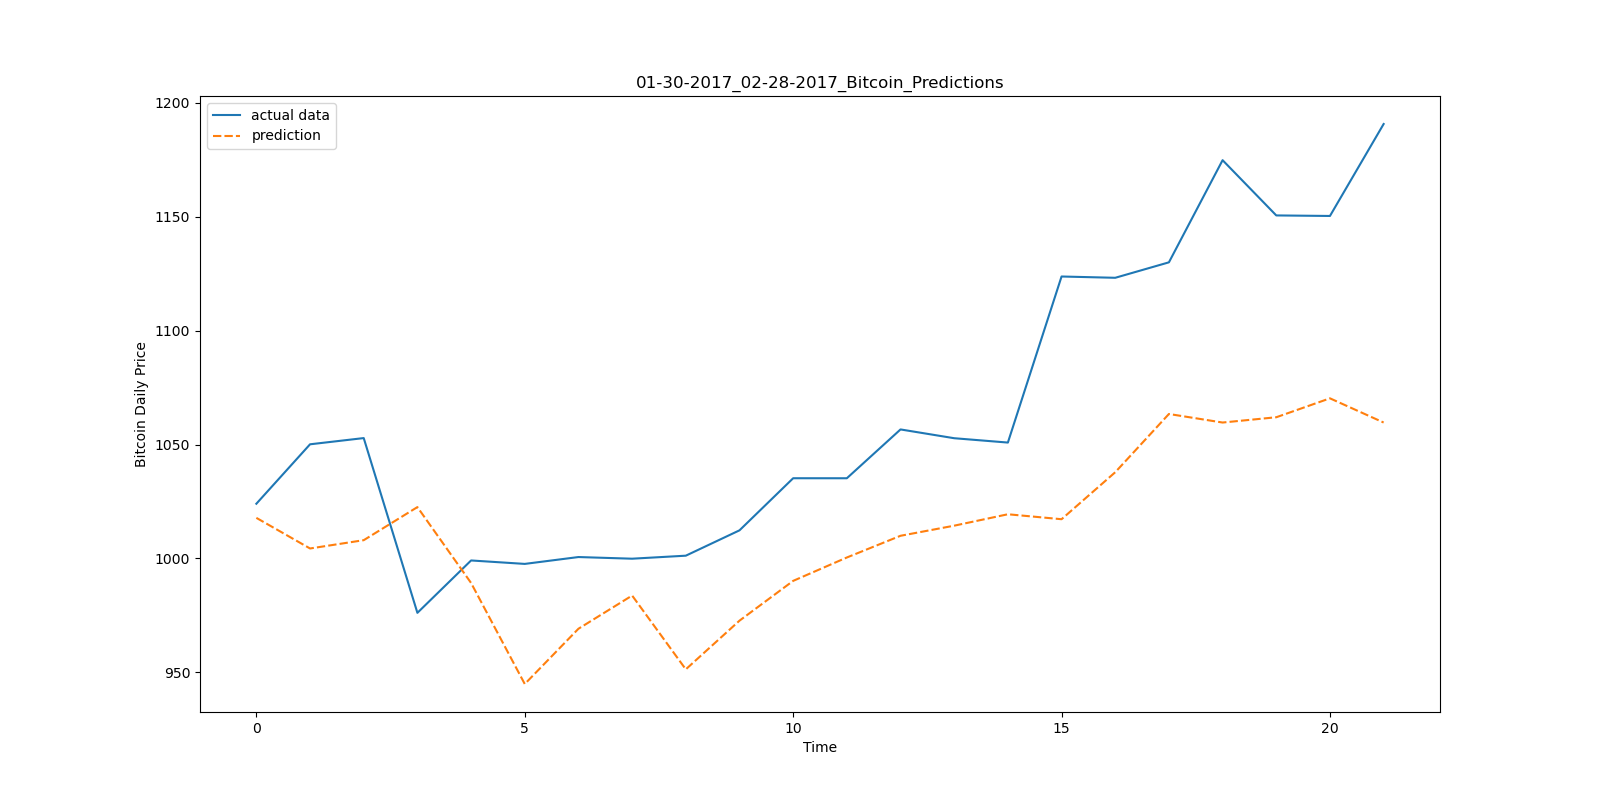
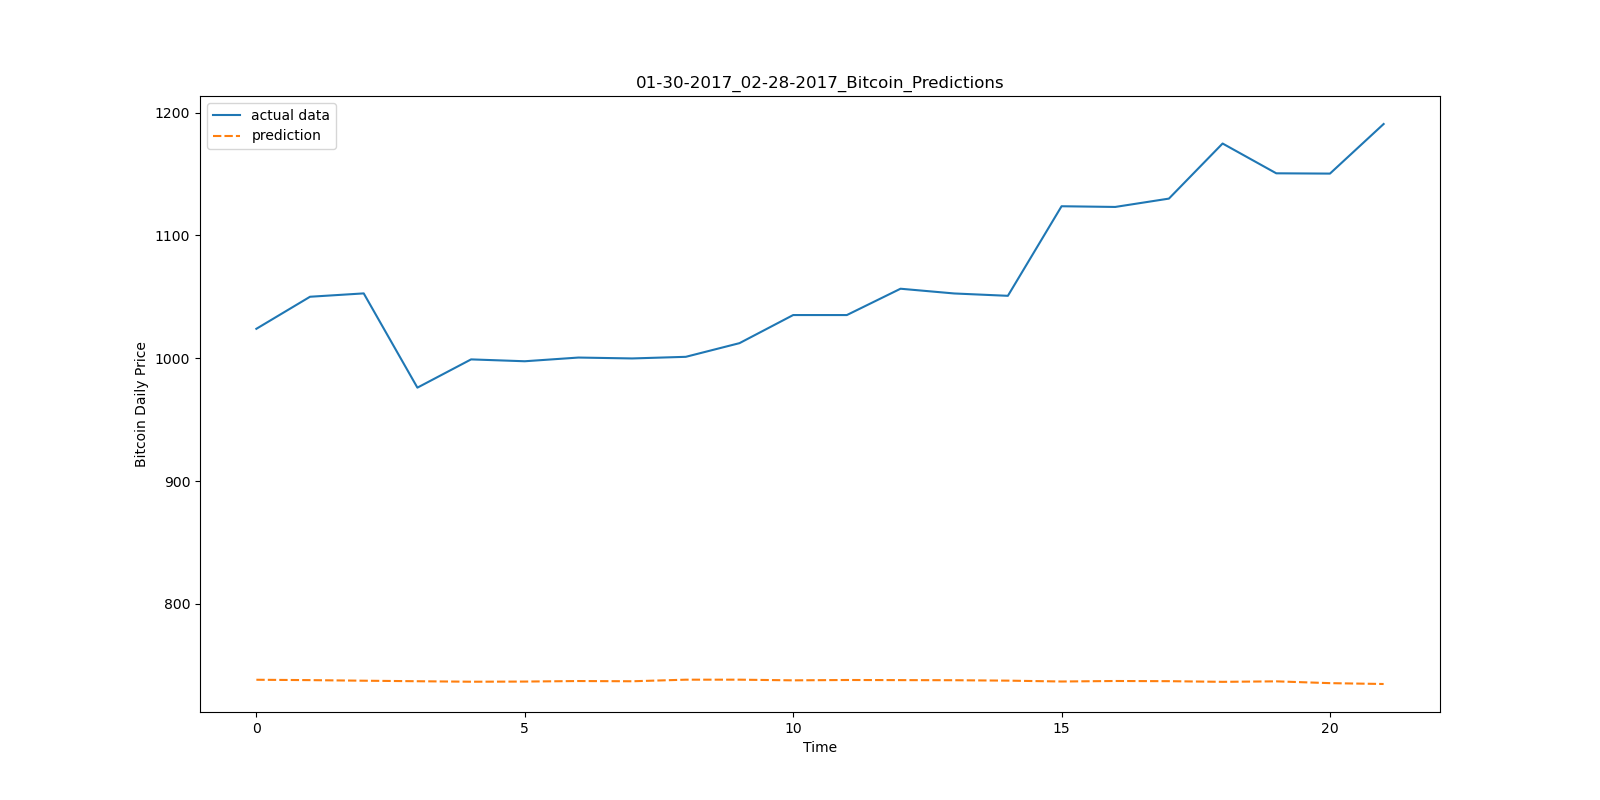
update code

diff --git a/code/trade.py b/code/trade.py
@@ -6,13 +6,13 @@ from LSTM_Predictor import LSTM_Predictor
 
 class Crossover_runner():
     """Realization of double avergae line stradegy"""
-    def __init__(self,obs_length=30,pred_length=30,initial_wait=90,win_short=3,win_long=20):
+    def __init__(self,obs_length=30,pred_length=30,initial_wait=90,train_interval=15,win_short=3,win_long=20):
         """Initialization"""
         self.present_date = datetime.strptime('09-11-2016','%m-%d-%Y')
         self.trade = False
-
+        self.last_train_date = datetime.strptime('09-11-2016','%m-%d-%Y')
         # Assets
-        self.dollar = 1000.0
+        self.cash = 1000.0
         self.gold = 0.0 # in troy ounce
         self.bitcoin = 0.0 # in bitcoin
         self.total_asset = 1000.0 # in dollar
@@ -25,6 +25,7 @@ class Crossover_runner():
         self.trade_cooldown = 10
         self.common_cooldown  = 10
         self.wait_time = 10
+        self.train_interval = train_interval
         self.win_short = win_short 
         self.win_long = win_long 
 
@@ -33,11 +34,18 @@ class Crossover_runner():
         self.Bitcoin_predictor = LSTM_Predictor(label='bitcoin')
         return
 
-    def total_assets(self):
-        self.total_assets = self.dollar
-        self.total_assets += self.gold * self.gold_price
-        self.total_assets += self.bitcoin * self.bitcoin_price
-        return self.total_assets
+    def total_assets(self,print_info=False):
+        self.total_asset = self.cash
+        self.total_asset += self.gold * self.gold_price
+        self.total_asset += self.bitcoin * self.bitcoin_price
+        if print_info:
+            print(self.present_date)
+            print(f"\nTotal assets: ${self.total_asset}")
+            print(f"Cash: ${self.cash}")
+            print(f"Gold: ${self.gold * self.gold_price}")
+            print(f"Bitcoin: ${self.bitcoin * self.bitcoin_price}\n")
+
+        return self.total_asset
 
     def run(self):
         """Run stradegy"""
@@ -45,15 +53,21 @@ class Crossover_runner():
         self.present_date += timedelta(days=self.initial_wait)
         while self.present_date < datetime.strptime('09-10-2021','%m-%d-%Y'):
             self.trade = False
-            # self.gold_obs,self.gold_pred = self.Gold_predictor.get_data(self.present_date - timedelta(days=self.obs_length),
+            # train = self.last_train_date + timedelta(days=self.train_interval) >=  self.present_date # whether to update model
+            train = False
+            # self.gold_obs,self.gold_pred,self.gold_price = self.Gold_predictor.get_data(self.present_date - timedelta(days=self.obs_length),
             #                                                             self.present_date,
-            #                                                             self.present_date + timedelta(days=self.pred_length)
+            #                                                             self.present_date + timedelta(days=self.pred_length),
+            #                                                             train=train
             #                                                             )
             self.bitcoin_obs,self.bitcoin_pred,self.bitcoin_price = self.Bitcoin_predictor.get_data(self.present_date - timedelta(days=self.obs_length),
                                                                                 self.present_date,
-                                                                                self.present_date + timedelta(days=self.pred_length)
+                                                                                self.present_date + timedelta(days=self.pred_length),
+                                                                                train=train
                                                                                 )
-            print(self.present_date)
+
+            self.total_assets(print_info=True)
+
             if self.trade:
                 self.wait_time = self.trade_cooldown
             else:

diff --git a/code/LSTM_Predictor.py b/code/LSTM_Predictor.py
@@ -54,7 +54,7 @@ class LSTM_Predictor():
         plt.xlabel('Date')
         plt.ylabel(label.title() + ' Daily Price')
         plt.savefig(self.path + label.title() + '_Daily_Price.png')
-        # plt.show()
+        plt.close()
 
         print("\nLoad data success!\n")
 
@@ -63,6 +63,8 @@ class LSTM_Predictor():
         self.start_date = datetime.strptime('01-11-2017','%m-%d-%Y')
         self.present_date = datetime.strptime('01-11-2019','%m-%d-%Y')
         self.end_date = datetime.strptime('01-11-2019','%m-%d-%Y')
+
+        self.build_model(alpha=7,beta=1,gamma=64)
 
         return
 
@@ -146,7 +148,7 @@ class LSTM_Predictor():
         # plt.subplot(122)
         # plt.title("X_test[:, 0, 0] (%d ~ %d)" % (len(self.x_train), len(self.x_train)+len(self.x_test)-1))
         # sns.lineplot(x=np.arange(len(self.x_train), len(self.x_train)+len(self.x_test)), y=self.x_test[:, 0, 0])
-        # plt.show()
+        
 
         ## train model
         self.model.compile(optimizer='adam', loss='mse')
@@ -157,7 +159,7 @@ class LSTM_Predictor():
         plt.ylabel("Loss")
         plt.title(self.train_end_date.strftime("%m-%d-%Y") + '_' + self.label.title() + '_train_history')
         plt.savefig(self.path + self.train_end_date.strftime("%m-%d-%Y") + '_' + '_train_history.png')
-        # plt.show()
+        plt.close()
         return self.history
 
     def predict(self):
@@ -174,7 +176,7 @@ class LSTM_Predictor():
         plt.ylabel(self.label.title() + " Daily Price")
         plt.title(self.train_end_date.strftime("%m-%d-%Y") + '_' +  self.test_end_date.strftime("%m-%d-%Y") + '_' + self.label.title() + '_Predictions')
         plt.savefig(self.path + self.train_end_date.strftime("%m-%d-%Y") + '_' +  self.test_end_date.strftime("%m-%d-%Y") + '_' + '_Predictions.png')
-        # plt.show()
+        plt.close()
         return self.preds
 
     def get_data(self,start_date,present_date,end_date,train=True):
@@ -187,7 +189,7 @@ class LSTM_Predictor():
         except:
             raiseExceptions('Invalid Date!')
 
-        self.build_model(alpha=7,beta=1,gamma=64)
+        # self.build_model(alpha=7,beta=1,gamma=64)
         self.create_dataset(train_end_date = present_date+timedelta(days=1), test_end_date=end_date)
         if train:
             self.train_model() # today's price is known
